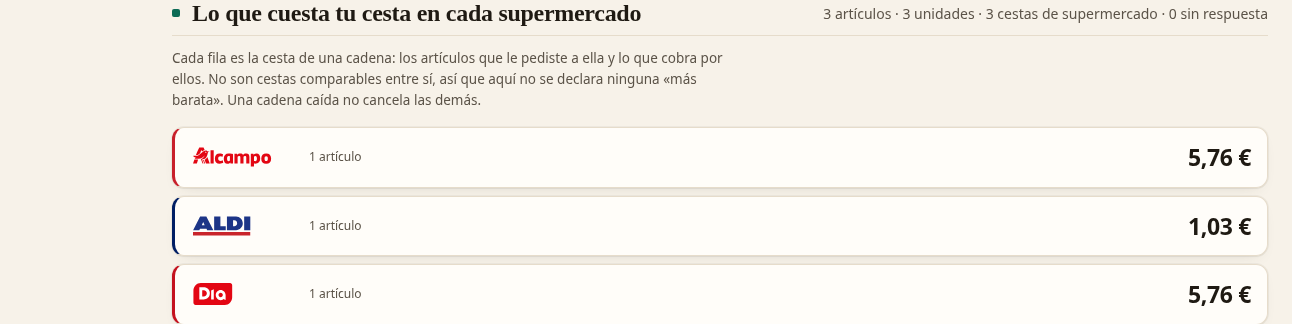
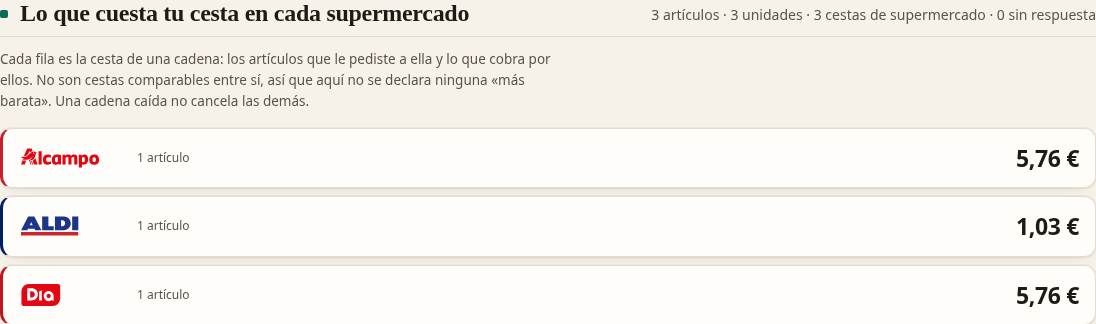
docs(web): el README abre con la marca y las capturas, rehechas
El README lleva arriba la marca cuadrada del proyecto y reproduce en «La marca
del proyecto» la del encabezado, aclarando por qué esa va sin la tira de las
cadenas. La frase que decía que la página no pide ninguna imagen ya no era
cierta: la única que carga es logo.png, y ahora lo dice.

Las cinco capturas se rehacen contra el servidor actual con los datos del día
(7 de 7 cadenas, 98 resultados, 3 líneas de cesta, 0 sin respuesta). Dos cambios
de encuadre, a propósito: 02 y 04 pasan al marco natural del panel (1096 px en
vez de 1292, que era un recorte con 172 px de fondo a la izquierda) y 05 muestra
el topbar porque es una captura de viewport desplazado.

diff --git a/README.md b/README.md
@@ -1,3 +1,7 @@
+<p align="center">
+  <img src="docs/logo.png" alt="multi-super: la M con la capa, las seis cadenas y el nombre" width="320">
+</p>
+
 # multisuper
 
 **Qué es.** Un comparador de precios de supermercado: buscas un producto una vez y ves qué cuesta
@@ -159,8 +163,9 @@ En el móvil la misma página se apila sin recortes ni controles escondidos:
 
 ### Marcas de las cadenas
 
-Las siete marcas viajan dentro del binario, en un sprite inline: la página no pide ninguna
-imagen. Cada una sale de un vector público, se reproduce sin recolorear, recortar ni deformar,
+Las siete marcas viajan dentro del binario, en un sprite inline: ninguna de ellas es una
+petición. La única imagen que la página carga es `logo.png`, la marca del proyecto, que también
+va embebida en el binario. Cada una sale de un vector público, se reproduce sin recolorear, recortar ni deformar,
 y se usa solo para identificar la cadena que se compara. La caja es la misma para las siete
 (106 x 30 px) para que la columna se lea como una familia: la altura óptica se ajusta marca a
 marca y el ancho nunca se fuerza. La caja premia la versión horizontal de cada marca —la palabra
@@ -176,6 +181,19 @@ bloque cuadrado se lee como un icono y no como una marca.
 | LIDL | `File:Lidl-Logo.svg`, Wikimedia Commons (el mismo que sirve lidl.es) | dominio público |
 | MAS | `logo.svg` de supermercadosmas.com | marca registrada (uso nominativo) |
 | MERCADONA | `File:Mercadona.svg`, Wikimedia Commons | CC BY-SA 4.0 (uso nominativo) |
+
+**La marca del proyecto.** `web/logo.png` es la del encabezado y `docs/logo.png` la del README:
+el mismo lockup, la M con la capa y el nombre, pero la del encabezado va **sin la tira de las
+seis cadenas**, porque a 40 px esos chips no eran marcas sino seis manchas de color. Se renderiza
+a 40 px de alto (355 x 80 en el fichero, el arte recortado al hueso) y la del README a 320 px de
+ancho. A las dos se les ha quitado el relleno blanco exterior, así que la marca se apoya en el
+papel cálido de la página sin un rectángulo detrás: es el único raster del front end, y
+`TestBrandMarkIsOneLocalRaster` es lo que impide que aparezca un segundo por descuido. Las
+cadenas siguen identificándose con su marca real en las tarjetas, que es donde se leen.
+
+<p align="center">
+  <img src="web/logo.png" alt="La marca del encabezado: la M con la capa y multi-super, sin la tira de cadenas" width="178">
+</p>
 
 ## Relevancia y vocabulario
 
